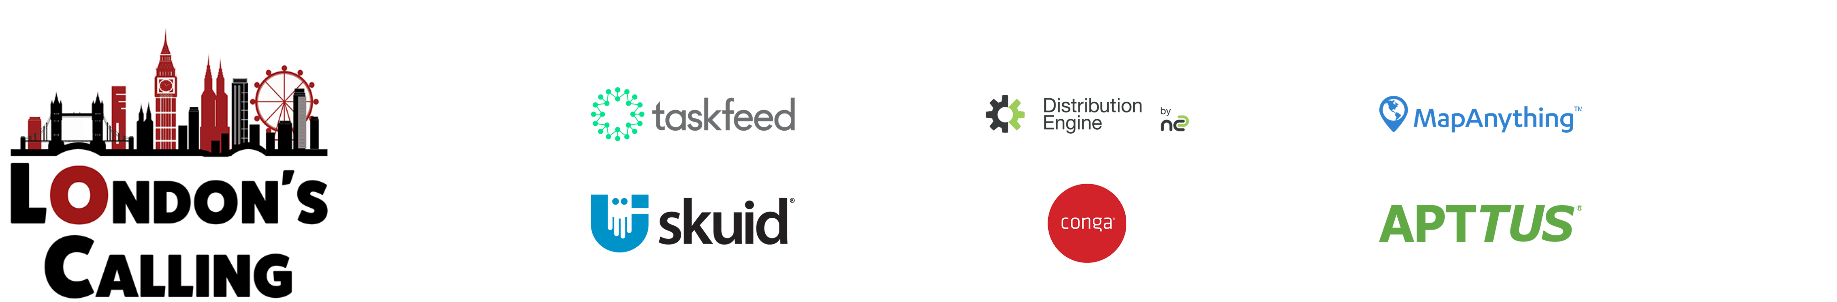
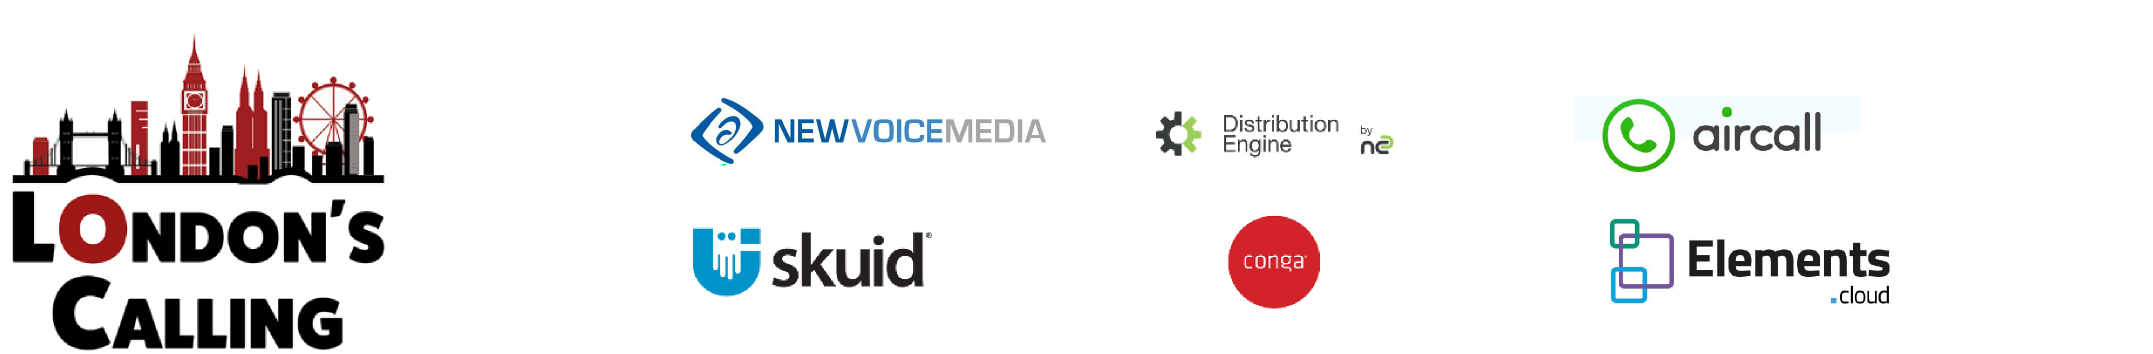
Updating for 2018

diff --git a/index.html b/index.html
@@ -4,7 +4,7 @@
 		<meta charset="utf-8">
 		<meta name="viewport" content="width=device-width, initial-scale=1.0, maximum-scale=1.0, user-scalable=no">
 
-		<title>London's Calling 2017</title>
+		<title>London's Calling 2018</title>
 
 		<link rel="stylesheet" href="css/reveal.css">
 		<link rel="stylesheet" href="css/theme/lc2017.css">
